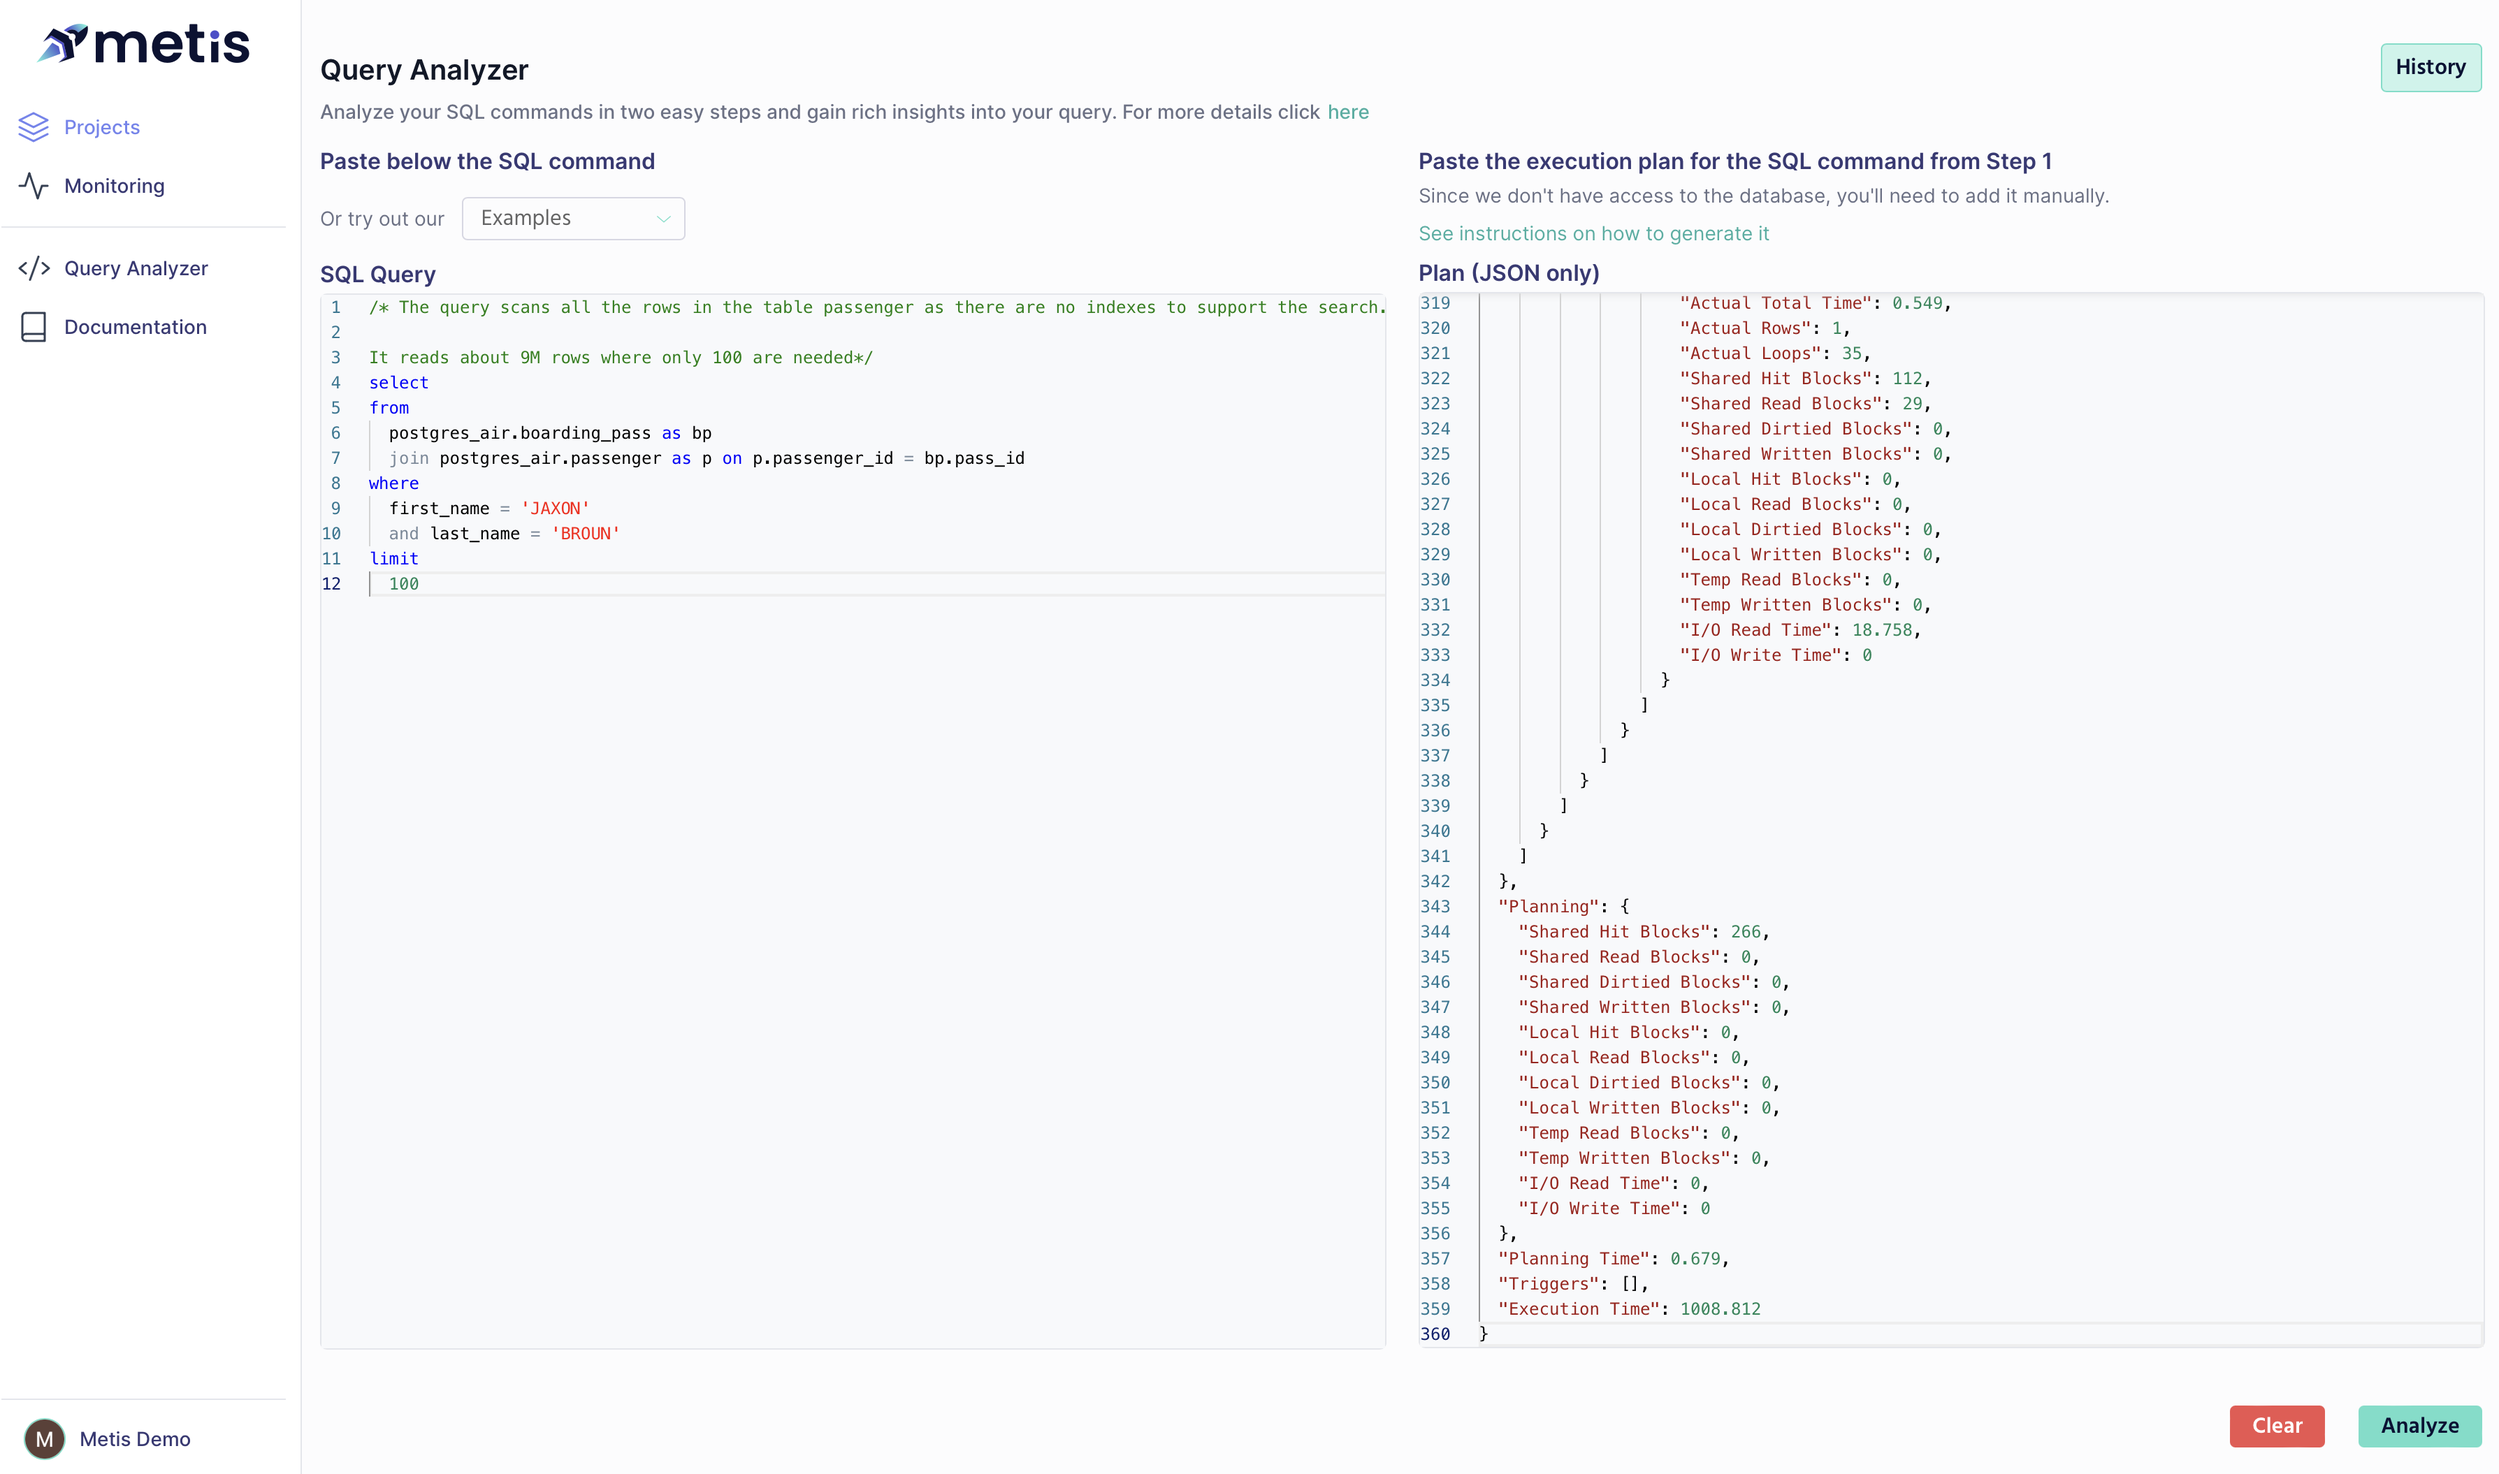
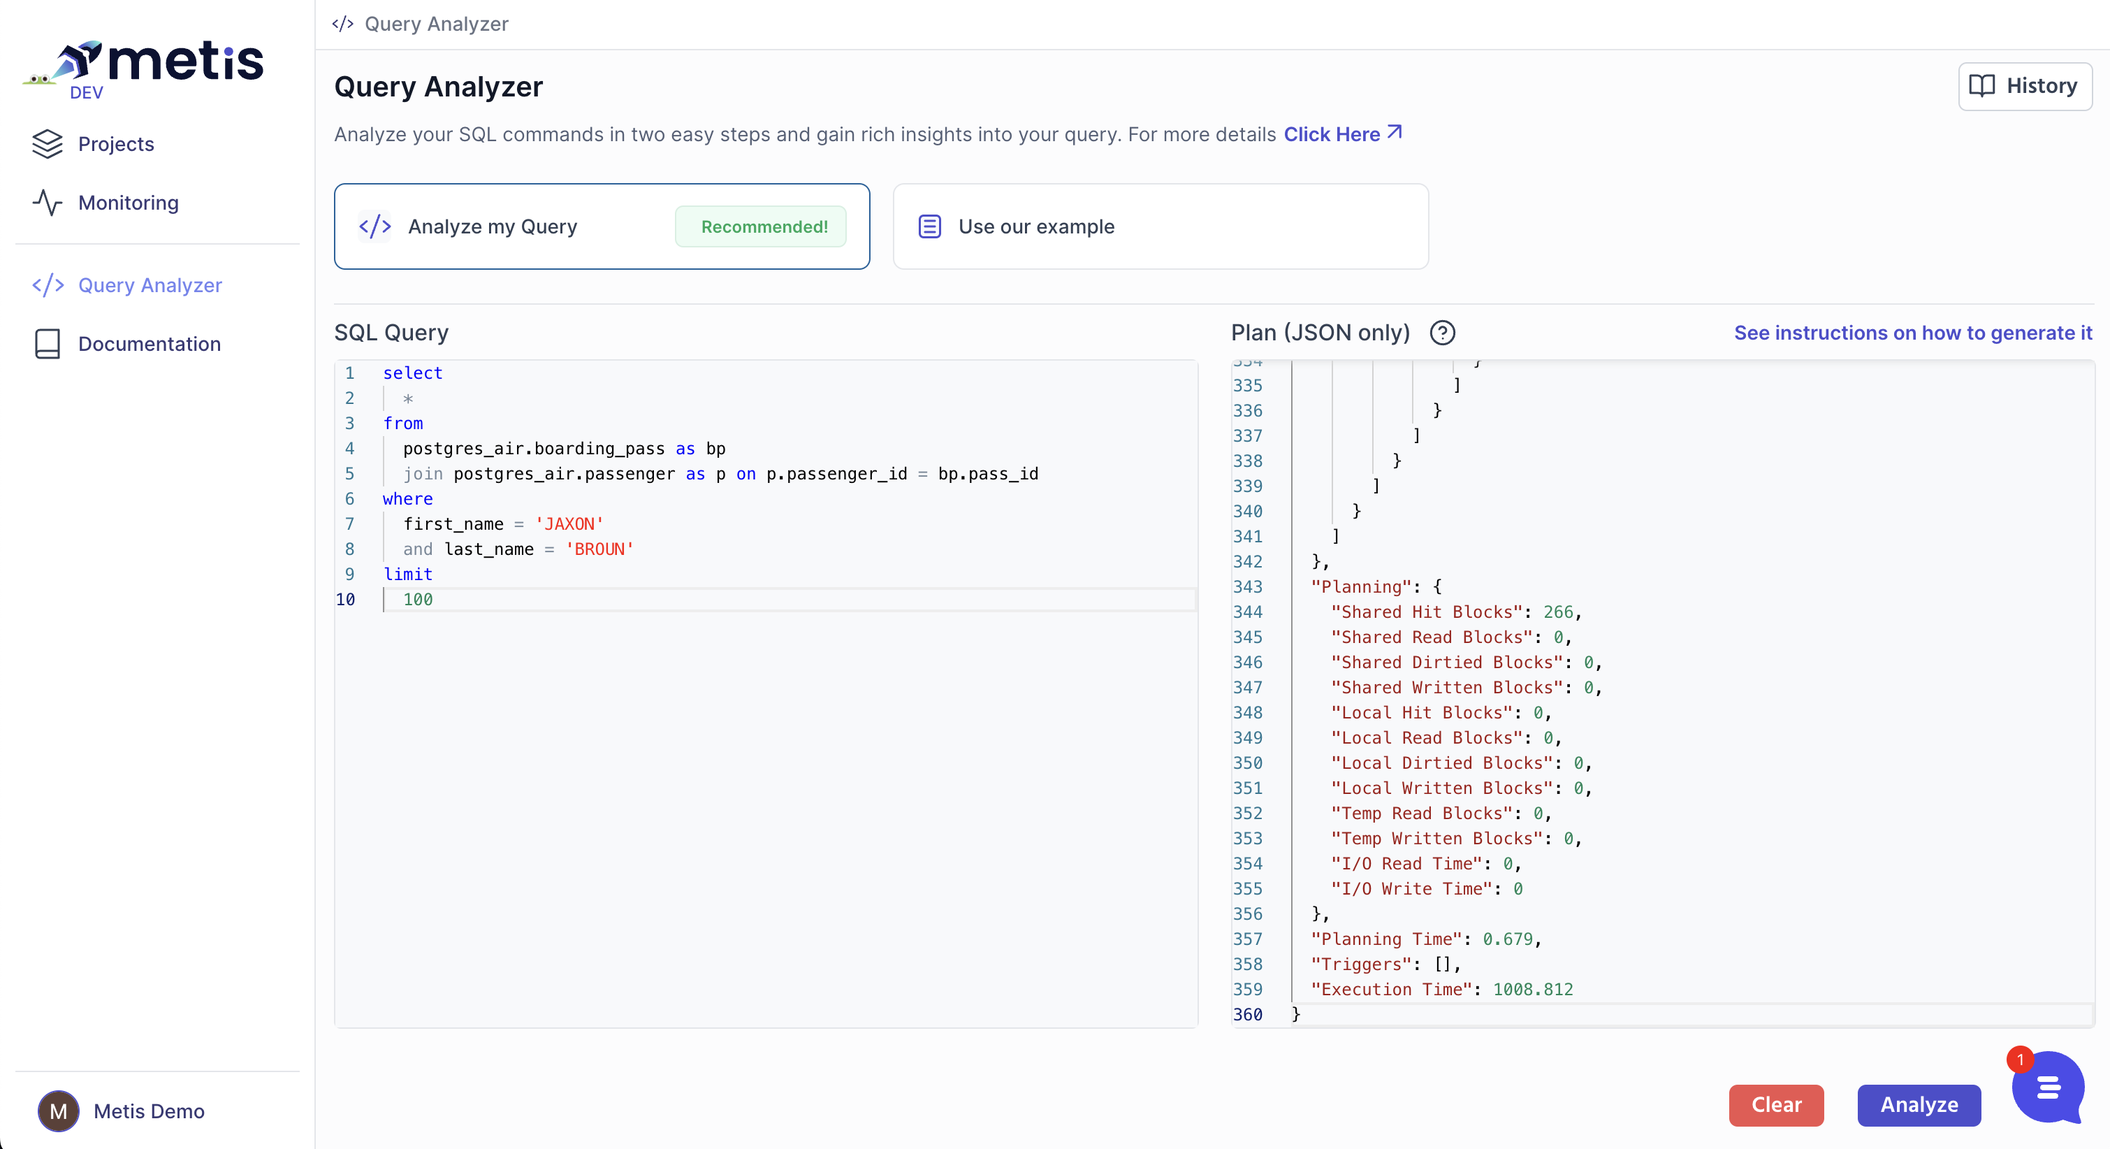
[add] new ui qa

diff --git a/docs/Query analyzer.md b/docs/Query analyzer.md
@@ -11,7 +11,6 @@ With the query analyzer module you can analyze and get insights about your queri
 <iframe width="560" height="315" src="https://www.youtube.com/embed/Hlah3Gvjf_E?si=GKXX535UjOwswY7t" title="YouTube video player" frameborder="0" allow="accelerometer; autoplay; clipboard-write; encrypted-media; gyroscope; picture-in-picture; web-share" allowfullscreen></iframe>
 </center>
 
-
 The query analyzer requires only a query and its executions plan in order to provide valuable insight about it.
 
 The query analyzer uses the same Metis engine to get comprehensive information about a given query.
@@ -28,7 +27,7 @@ Login is not required for using the Query Analyzer
 3. Paste the queries execution plan in the text box on the right side of the page
 4. Click on “Analyze”
 
-![Screenshot 2023-08-29 at 18.42.12.png](Query%20analyzer/analyzer.png)
+![“Analyze”](Query%20analyzer/analyzer_full.png)
 
 ### How to create an execution plan
 
@@ -55,7 +54,7 @@ The result will be an execution plan, in a JSON format which we will copy to the
 
 After inserting a query and its execution plan the Query analyzer will look like this:
 
-![Screenshot 2023-08-29 at 18.50.57.png](Query%20analyzer/analyzer_full.png)
+![“Analyze”](Query%20analyzer/analyzer_full.png)
 
 After clicking on “Analyze” you will get an analyzed query result with insights
 
